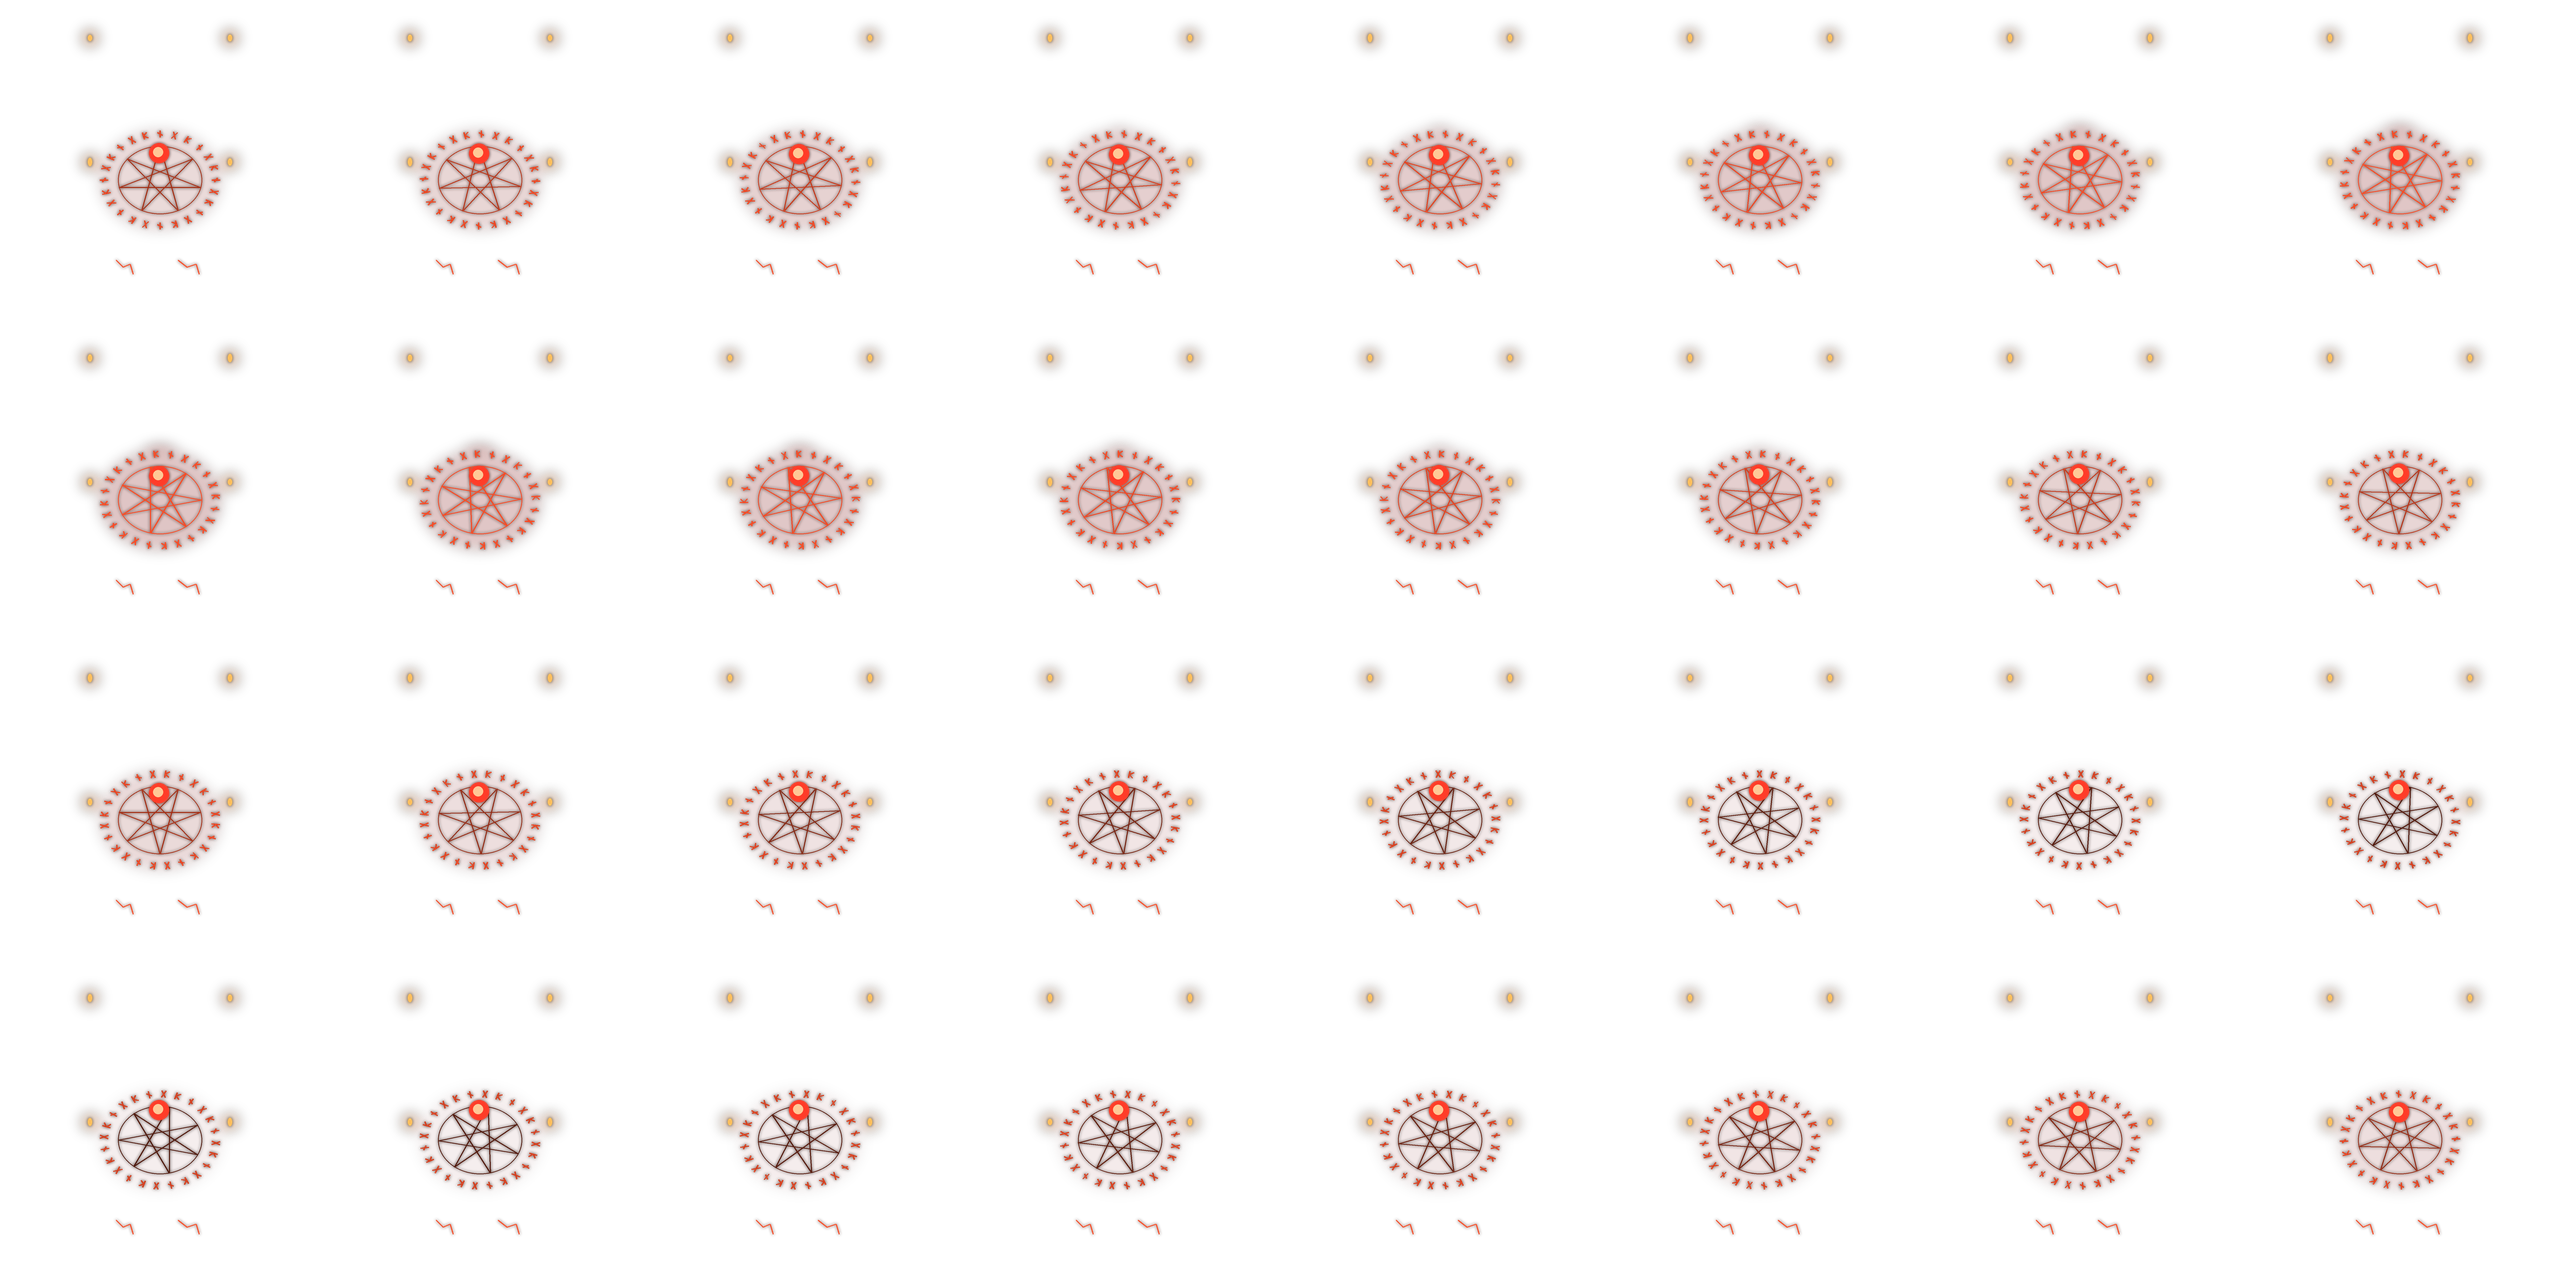
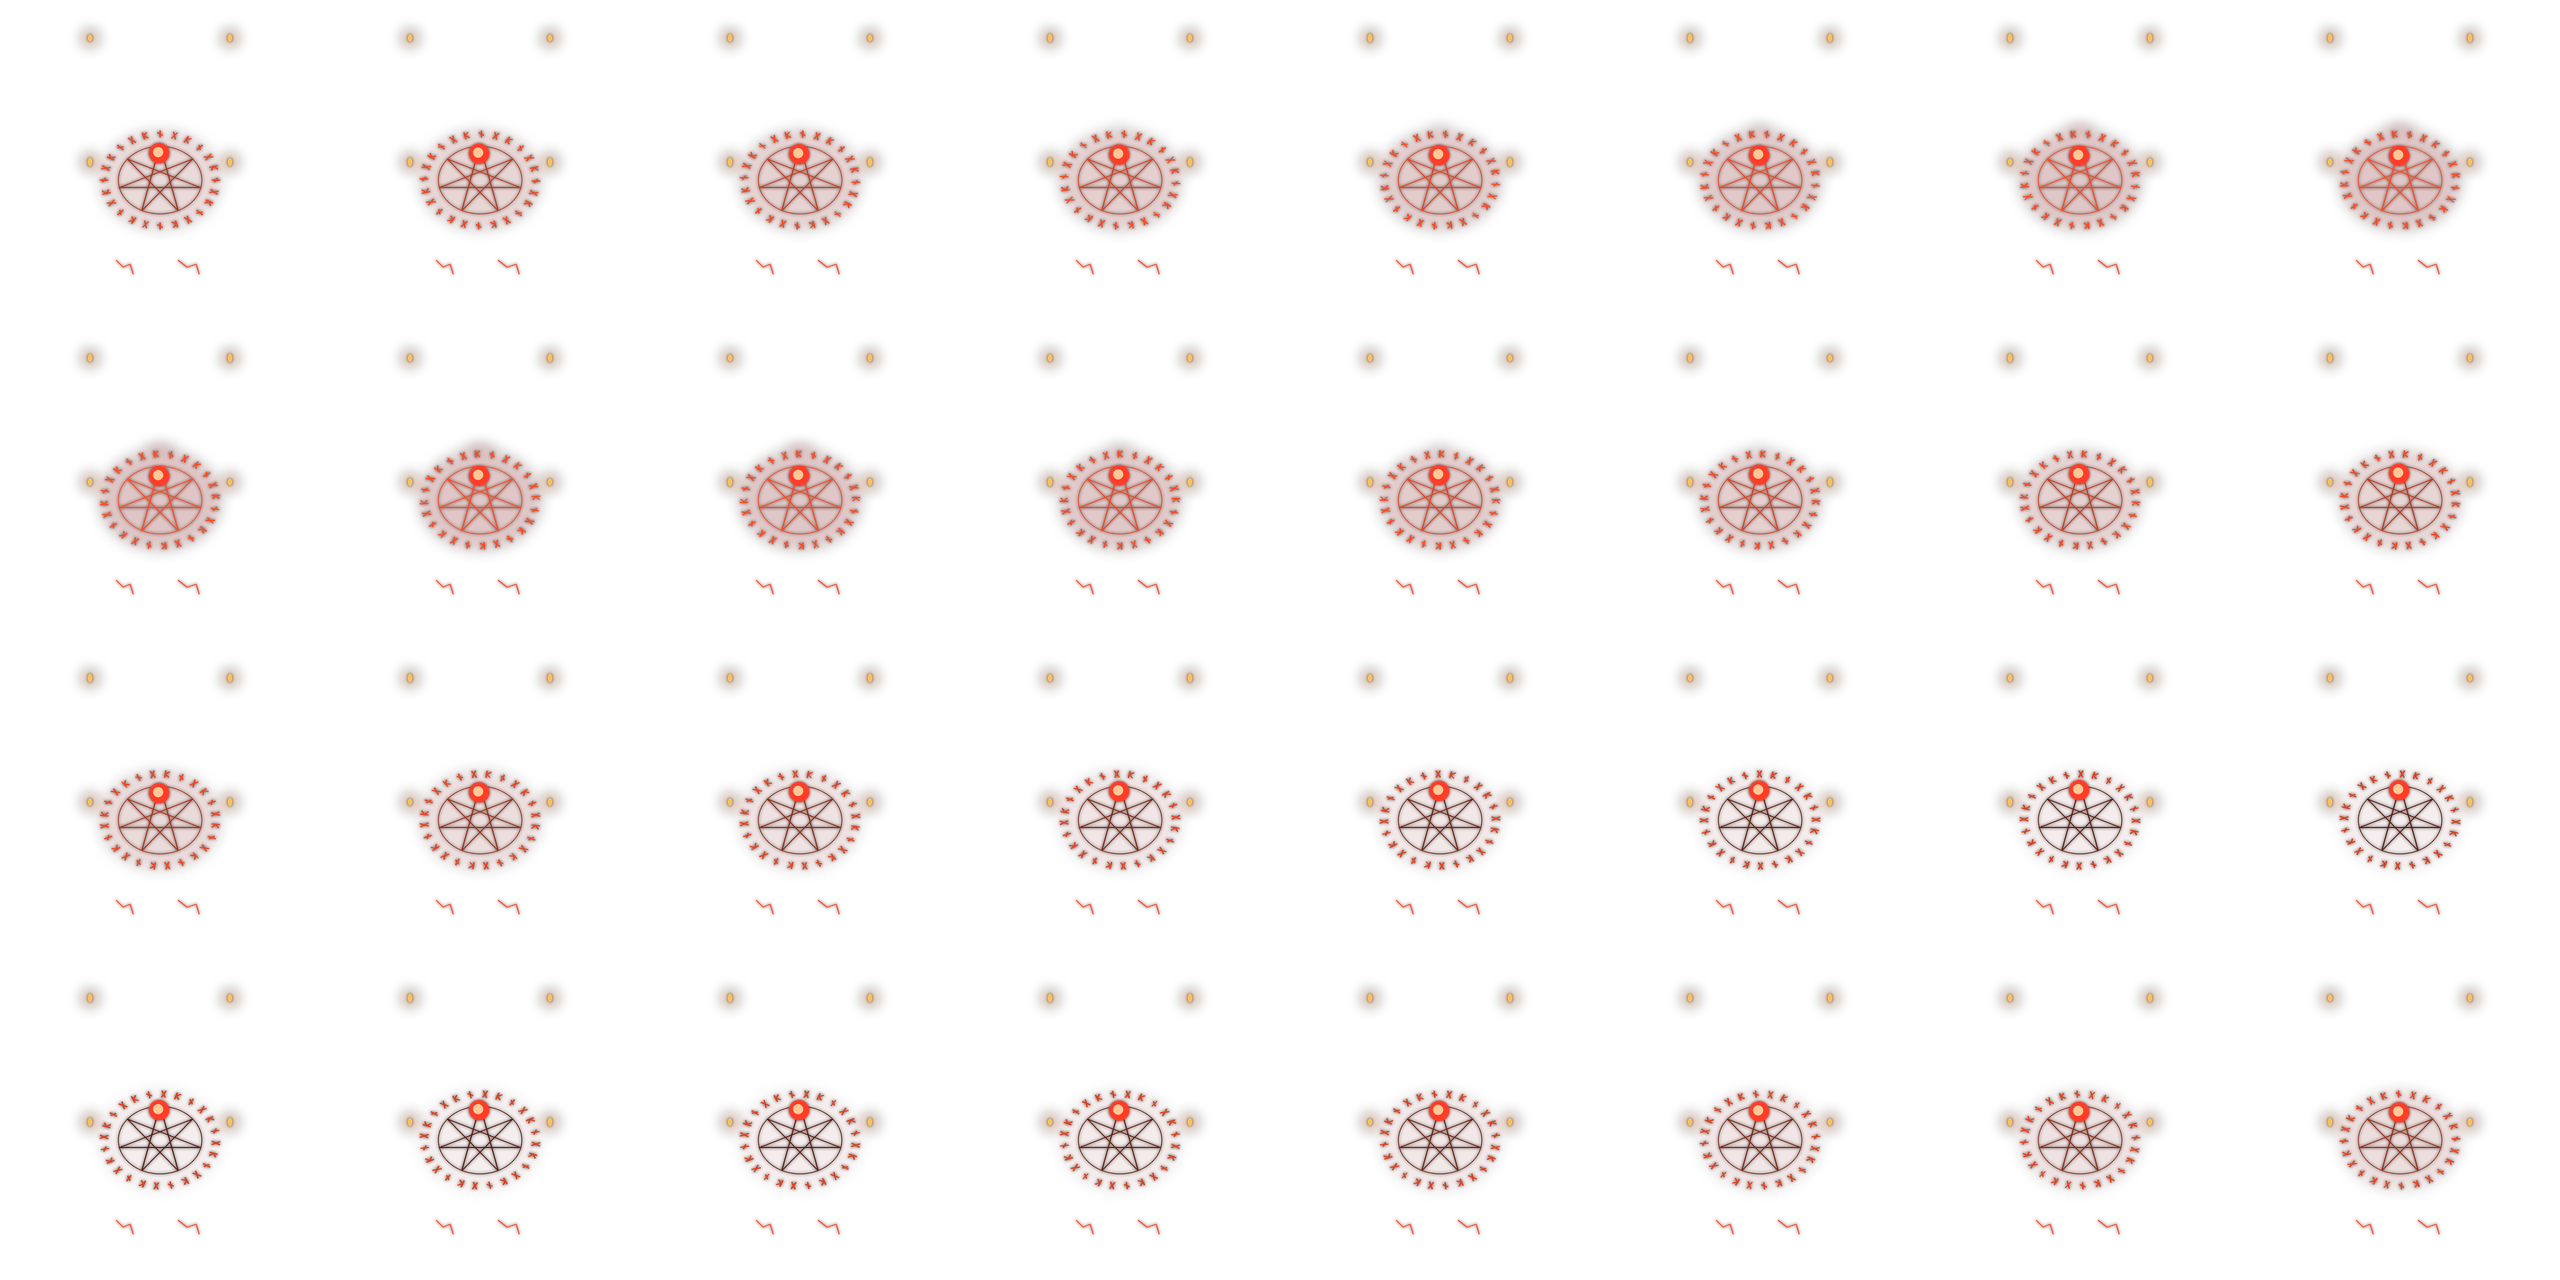
fix: draw full power and animate only while powered
The machine never runs its recipe, so it only drew drain power (1/30 of
the configured kW) and the game froze its animation.

- Set the electric drain to the configured power
- Make the entity sprite a dormant altar and draw the soul orb, runes and
  light with the rendering API while the machine is powered
- Apply speed module/beacon bonus to the generation interval and
  productivity bonus as a chance of extra items

diff --git a/generate_graphics.py b/generate_graphics.py
@@ -2,13 +2,15 @@
 """Generate the Faustian Fabricator entity sprites and icon.
 
 The machine is drawn as an occult altar: an obsidian plinth with a brass-ringed
-summoning circle, a rotating rune ring, a counter-rotating heptagram, a pulsing
-soul orb and four candle-topped obelisks.
+summoning circle and four candle-topped obelisks. While powered, control.lua
+draws the "awake" animation on top: a hovering soul orb, a rotating rune ring
+and a pulsing heptagram.
 
 Outputs (all high resolution, used at scale 0.5 => 64 px per tile):
-  graphics/entity/faustian-fabricator.png         animated body (FRAMES frames)
-  graphics/entity/faustian-fabricator-glow.png    animated emissive layer
+  graphics/entity/faustian-fabricator.png         static body (dormant altar)
   graphics/entity/faustian-fabricator-shadow.png  static shadow
+  graphics/entity/faustian-fabricator-awake.png   animated orb (FRAMES frames)
+  graphics/entity/faustian-fabricator-glow.png    animated emissive layer (FRAMES frames)
   graphics/icons/faustian-fabricator.png          64 px icon with mipmaps
 
 Every frame shares the same canvas, so all layers use the same shift. Keep the
@@ -197,8 +199,7 @@ def draw_obelisk(layer, x, base_y, height, flicker):
     d.ellipse(ellipse_box(x, cy - 8, 1.6, 2.2), fill=FLAME)
 
 
-def draw_body(frame: int) -> Image.Image:
-    t = frame / FRAMES
+def draw_body() -> Image.Image:
     layer = new_layer()
     d = ImageDraw.Draw(layer)
 
@@ -221,7 +222,7 @@ def draw_body(frame: int) -> Image.Image:
         d.line(pts([(x0, y), ((x0 + x1) / 2, y + 7), (x1, y + 4), (x1 + 3, y + 14)]), fill=EMBER_DIM, width=int(s(1.6)))
 
     for o in back:
-        draw_obelisk(layer, *o, flicker=0.5 + 0.5 * math.sin(2 * math.pi * (t * 3 + o[0] / 50)))
+        draw_obelisk(layer, *o, flicker=0.5)
 
     # Top face
     fill_textured(layer, TOP_FACE, STONE, 1.0)
@@ -233,26 +234,40 @@ def draw_body(frame: int) -> Image.Image:
               outline=BRASS, width=int(s(3)))
     d.ellipse(ellipse_box(CIRCLE_CX, CIRCLE_CY - 1, CIRCLE_RX - 1, CIRCLE_RY - 1), outline=BRASS_LIGHT, width=int(s(0.8)))
     d.ellipse(ellipse_box(CIRCLE_CX, CIRCLE_CY, CIRCLE_RX - 20, CIRCLE_RY - 17), outline=BRASS_DARK, width=int(s(2)))
-    rune_phase = t * 2 * math.pi / RUNE_SECTORS
-    draw_runes(d, rune_phase, EMBER_DIM, 1.6)
-    draw_heptagram(d, -t * 2 * math.pi / 7, EMBER_DIM, 1.6)
+    # Dormant engravings: an empty rune band and the heptagram groove
+    for inset in (6, 18):
+        d.ellipse(ellipse_box(CIRCLE_CX, CIRCLE_CY, CIRCLE_RX - inset, CIRCLE_RY - inset * 0.85), outline=EMBER_DIM, width=int(s(1)))
+    draw_heptagram(d, 0, EMBER_DIM, 1.6)
 
     # Brass studs where the obelisk sockets meet the circle
     for a in range(4):
         sx, sy = on_circle(math.pi / 4 + a * math.pi / 2, CIRCLE_RX, CIRCLE_RY)
         d.ellipse(ellipse_box(sx, sy, 3.5, 3), fill=BRASS, outline=BRASS_DARK, width=int(s(0.8)))
 
-    # Soul orb hovering above the circle, with its shadow on the floor
-    bob = math.sin(2 * math.pi * t) * 3
-    orb_y = CIRCLE_CY - 26 + bob
-    d.ellipse(ellipse_box(CIRCLE_CX, CIRCLE_CY + 2, 13 - bob * 0.5, 6), fill=(10, 4, 6, 170))
-    d.ellipse(ellipse_box(CIRCLE_CX, orb_y, 13, 13), fill=(120, 14, 16))
-    d.ellipse(ellipse_box(CIRCLE_CX - 2, orb_y - 2, 9, 9), fill=(180, 30, 26))
-    d.ellipse(ellipse_box(CIRCLE_CX - 5, orb_y - 6, 3.5, 2.5), fill=(255, 210, 190))
+    # Empty brass cradle where the soul orb manifests
+    d.ellipse(ellipse_box(CIRCLE_CX, CIRCLE_CY, 9, 6), fill=OBSIDIAN_DARK, outline=BRASS, width=int(s(1.6)))
 
     for o in front:
-        draw_obelisk(layer, *o, flicker=0.5 + 0.5 * math.sin(2 * math.pi * (t * 3 + o[0] / 50 + 0.37)))
+        draw_obelisk(layer, *o, flicker=0.5)
 
+    return layer.resize((FRAME_W, FRAME_H), Image.LANCZOS)
+
+
+def orb_y(t: float) -> float:
+    return CIRCLE_CY - 26 + math.sin(2 * math.pi * t) * 3
+
+
+def draw_awake(frame: int) -> Image.Image:
+    """Solid parts drawn while powered: the hovering orb and its shadow on the floor."""
+    t = frame / FRAMES
+    y = orb_y(t)
+    bob = y - (CIRCLE_CY - 26)
+    layer = new_layer()
+    d = ImageDraw.Draw(layer)
+    d.ellipse(ellipse_box(CIRCLE_CX, CIRCLE_CY + 2, 13 - bob * 0.5, 6), fill=(10, 4, 6, 170))
+    d.ellipse(ellipse_box(CIRCLE_CX, y, 13, 13), fill=(120, 14, 16))
+    d.ellipse(ellipse_box(CIRCLE_CX - 2, y - 2, 9, 9), fill=(180, 30, 26))
+    d.ellipse(ellipse_box(CIRCLE_CX - 5, y - 6, 3.5, 2.5), fill=(255, 210, 190))
     return layer.resize((FRAME_W, FRAME_H), Image.LANCZOS)
 
 
@@ -265,15 +280,14 @@ def draw_glow(frame: int) -> Image.Image:
 
     rune_color = tuple(int(c * (0.75 + 0.25 * pulse)) for c in EMBER) + (255,)
     draw_runes(d, t * 2 * math.pi / RUNE_SECTORS, rune_color, 1.4)
-    draw_heptagram(d, -t * 2 * math.pi / 7, tuple(int(c * pulse) for c in EMBER) + (255,), 1.2)
+    draw_heptagram(d, 0, tuple(int(c * pulse) for c in EMBER) + (255,), 1.2)
     for x0, x1 in ((CX - 44, CX - 30), (CX + 18, CX + 36)):
         y = PLINTH_BOTTOM + 6
         d.line(pts([(x0, y), ((x0 + x1) / 2, y + 7), (x1, y + 4), (x1 + 3, y + 14)]), fill=EMBER, width=int(s(1.2)))
 
-    bob = math.sin(2 * math.pi * t) * 3
-    orb_y = CIRCLE_CY - 26 + bob
-    d.ellipse(ellipse_box(CIRCLE_CX - 1, orb_y - 1, 10, 10), fill=SOUL)
-    d.ellipse(ellipse_box(CIRCLE_CX - 2, orb_y - 2, 5, 5), fill=(255, 200, 150))
+    y = orb_y(t)
+    d.ellipse(ellipse_box(CIRCLE_CX - 1, y - 1, 10, 10), fill=SOUL)
+    d.ellipse(ellipse_box(CIRCLE_CX - 2, y - 2, 5, 5), fill=(255, 200, 150))
 
     for i, (x, base_y, height) in enumerate(OBELISKS):
         flicker = 0.5 + 0.5 * math.sin(2 * math.pi * (t * 3 + x / 50 + (0.37 if base_y >= CY else 0)))
@@ -281,7 +295,7 @@ def draw_glow(frame: int) -> Image.Image:
 
     halo = new_layer()
     hd = ImageDraw.Draw(halo)
-    hd.ellipse(ellipse_box(CIRCLE_CX, orb_y, 26 * pulse + 6, 26 * pulse + 6), fill=(200, 30, 20, int(150 * pulse)))
+    hd.ellipse(ellipse_box(CIRCLE_CX, y, 26 * pulse + 6, 26 * pulse + 6), fill=(200, 30, 20, int(150 * pulse)))
     hd.ellipse(ellipse_box(CIRCLE_CX, CIRCLE_CY, CIRCLE_RX - 6, CIRCLE_RY - 5), fill=(120, 10, 8, int(60 * pulse)))
     for x, base_y, height in OBELISKS:
         hd.ellipse(ellipse_box(x, base_y - height - 10, 9, 9), fill=(255, 140, 50, 110))
@@ -313,7 +327,9 @@ def sheet(frames: list[Image.Image]) -> Image.Image:
     return out
 
 
-def make_icon(body: Image.Image, glow: Image.Image) -> Image.Image:
+def make_icon(body: Image.Image, awake: Image.Image, glow: Image.Image) -> Image.Image:
+    body = body.copy()
+    body.alpha_composite(awake)
     rgb = ImageChops.add(body.convert("RGB"), glow.convert("RGB"))
     alpha = ImageChops.lighter(body.getchannel("A"), glow.getchannel("A"))
     rgb.putalpha(alpha)
@@ -334,12 +350,14 @@ def make_icon(body: Image.Image, glow: Image.Image) -> Image.Image:
 def main() -> None:
     entity_dir = REPO_ROOT / "graphics" / "entity"
     icon_dir = REPO_ROOT / "graphics" / "icons"
-    bodies = [draw_body(i) for i in range(FRAMES)]
+    body = draw_body()
+    awakes = [draw_awake(i) for i in range(FRAMES)]
     glows = [draw_glow(i) for i in range(FRAMES)]
-    sheet(bodies).save(entity_dir / "faustian-fabricator.png", optimize=True)
+    body.save(entity_dir / "faustian-fabricator.png", optimize=True)
+    sheet(awakes).save(entity_dir / "faustian-fabricator-awake.png", optimize=True)
     sheet(glows).save(entity_dir / "faustian-fabricator-glow.png", optimize=True)
     draw_shadow().save(entity_dir / "faustian-fabricator-shadow.png", optimize=True)
-    make_icon(bodies[0], glows[0]).save(icon_dir / "faustian-fabricator.png", optimize=True)
+    make_icon(body, awakes[0], glows[0]).save(icon_dir / "faustian-fabricator.png", optimize=True)
     print(f"frame {FRAME_W}x{FRAME_H}, {FRAMES} frames, line_length {LINE_LENGTH}, shift {SHIFT}")
 
 

diff --git a/GEMINI.md b/GEMINI.md
@@ -8,7 +8,11 @@ This is a Factorio mod for Factorio 2.0 and 2.1. It features a "Faustian Fabrica
 - `data.lua` checks `mods["base"]` to use `category` (2.0) or `categories` (2.1) on recipes. `control.lua` uses `defines.inventory.crafter_output`, which exists in both.
 
 ## Graphics
-Entity sprites and the icon are generated by `python3 generate_graphics.py`. Frame size, frame count and shift there must match the `graphics_set` in `data.lua`.
+Entity sprites and the icon are generated by `python3 generate_graphics.py`. Frame size, frame count and shift there must match `data.lua`.
+The entity sprite is the dormant altar. The machine never runs a recipe (crafting machines freeze their animation when idle), so `control.lua` draws the `faustian-fabricator-awake` animation and a light with the rendering API while the machine is powered.
+
+## Power
+Power is drawn through the energy source's `drain`, set to the configured kW, because the machine never crafts. Don't try to make it craft: a furnace running a recipe with no results crashes the game when its output inventory is checked, and rejects the generated items.
 
 ## Modding Standards
 See [FACTORIO_MODDING.md](./FACTORIO_MODDING.md) for detailed Factorio 2.0 modding standards, patterns, and best practices used in this project.
